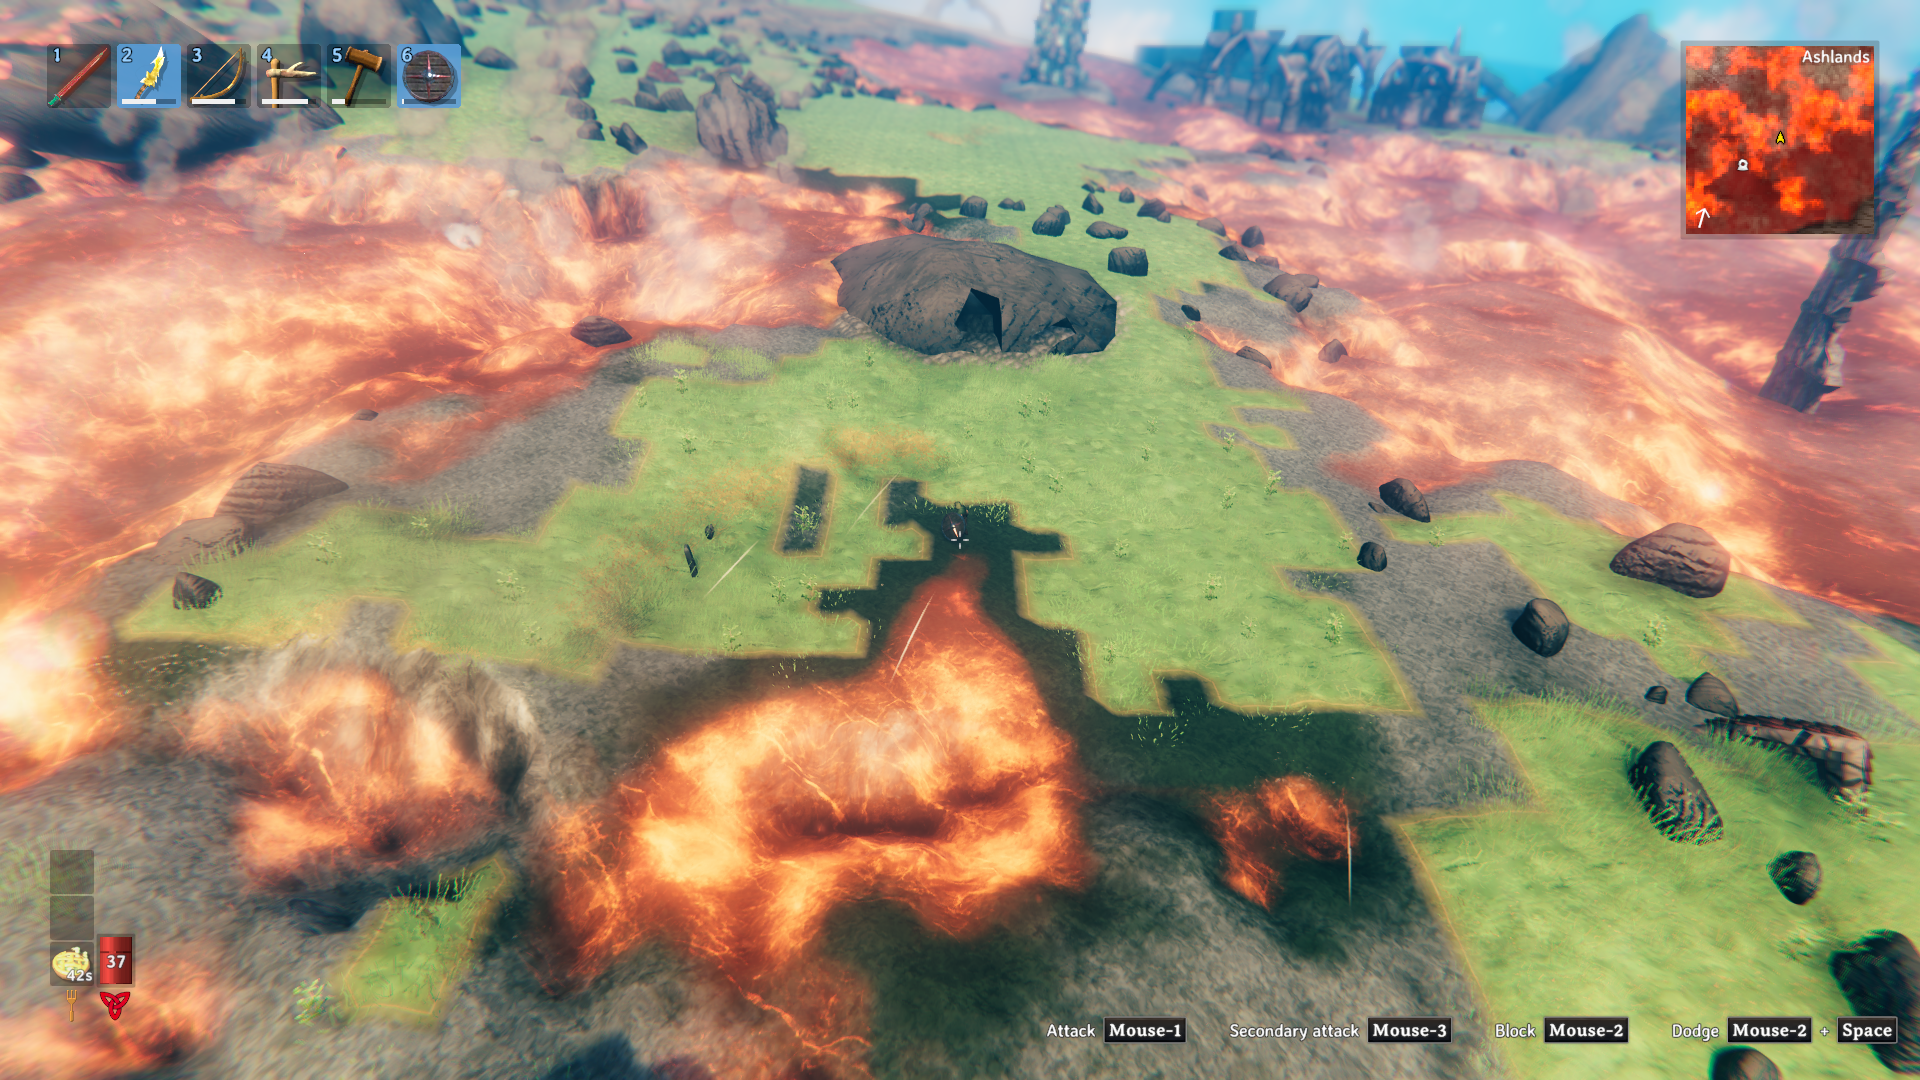
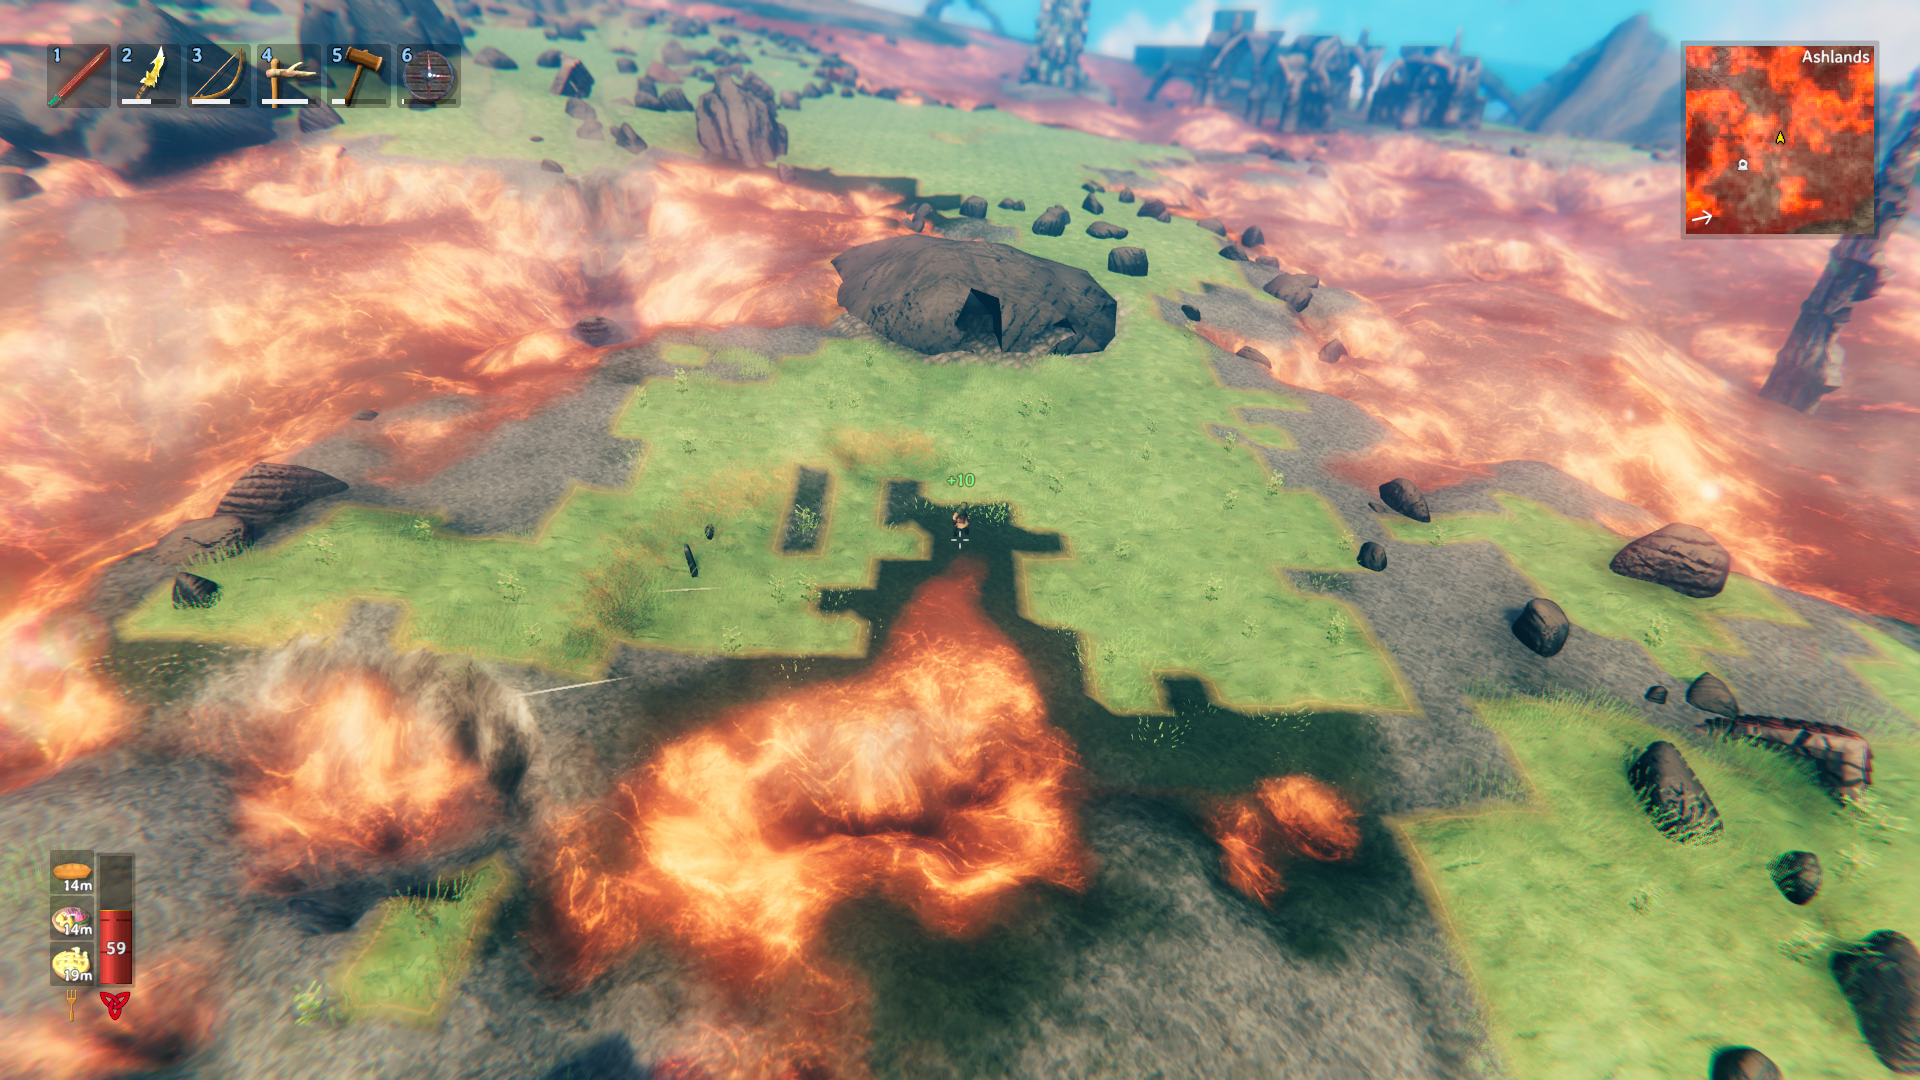
Lava edge v2 verified: docs, README configs, gallery refresh (incl. Vanilla)
Run 6 final: LAVACHECK PASS for MudBlend + GrassToLava (27,530 lava verts
each), GRASSCHECK PASS all styles, Legacy CONTRACT n=2 (pre-existing stride-2
artifact, excluded from aggregate), DebugGradient exempt by design. Visuals
match the terrain_Vanilla_* ground truth: lava edge in the vanilla place,
glowing rim + crack rivulets intact, no stair-steps, no yellow, no seams.
CLAUDE.md terrain section rewritten for v2 (hold invariant, ash skirt,
calibration findings, StoneAsh rejected); README config list updated; gallery
refreshed with the run-6 set including the vanilla reference shots.

diff --git a/CLAUDE.md b/CLAUDE.md
@@ -190,21 +190,46 @@ F1 dropdown, live rebuild via `SettingChanged` → `ForceTerrainRefresh`):
 - Lava mask is box-blurred on a padded grid (`BuildMaskGrid` samples neighbor chunks via
   `Heightmap.FindHeightmap` so kernels agree across chunk borders — no seams), and band
   thresholds get world-space Perlin jitter (deterministic, chunk-agnostic) for organic edges.
-- **Lava glow requires the AshLands vertex color** (DebugGradient strip 4 proof: Meadows
-  color over molten lava kills the glow). All styles keep full ash above mask ~0.45–0.58;
-  molten lava (mask > 0.6) is always deep inside that band.
+- **Lava glow requires the AshLands vertex color** (DebugGradient strip proofs: Meadows
+  color over molten lava kills the glow; constant half-ash `(255,0,0,128)` renders it dim
+  crimson — the glow scales with ash weight, so only full ash matches vanilla).
+- **AshHold invariant (v2, safety)**: `Heightmap.IsLava` = raw point-sampled paint-mask
+  alpha > 0.6 on a non-biome-edge AshLands chunk. Every styled vertex with raw mask ≥
+  `TransitionAshHold` (default 0.2, slider 0.05–0.55 < 0.6) renders full vanilla ash via a
+  binary gate on the RAW mask, so lethal ground can never look safe and the shader's
+  glowing rim/cracks stay exactly where vanilla puts them. LAVACHECK (in
+  `HeightmapPatches`, armed by the photo harness) counts violations per rebuild — must be
+  0. Do NOT feed raw into the band ramps: its lattice grain paints 1m color steps.
+- **Ash skirt (v2, band shaping)**: below the hold, band input =
+  `max(blurred+jitter, blurred-skirt + jitter/2)`. The skirt is a distance-decayed
+  grayscale dilation (separable max-plus) of the hold-capped raw mask, box-blurred to
+  round the hold region's lattice-blocky level-set corners. It guarantees the fade spans
+  ~4 m (MudBlend) / ~3.5 m (GrassToLava) around every lava feature — mask-value bands
+  alone collapse to <1 m at sharp mask cliffs (thin lava channels) and re-show stair
+  steps. Every ramp segment must span ≥ ~1.5–2 vertices at the skirt decay rate.
+  `AllowGrassAt` mirrors the skirt with 8 point probes so grass stops mid-fade.
+- Bands are anchored to the hold H: MudBlend R-ramp `[H−W, H−W/2]`, A-ramp `[H−W/2, H]`
+  (W = `TransitionFadeWidth`, default 0.15); GrassToLava fixed rim R `[H−0.06, H−0.035]`,
+  A `[H−0.035, H]`, jitter halved. A-ramps end at H with 255 → no seam at the gate.
 - `Legacy` is byte-identical to the pre-style behavior (stamp at 0.1, grass rule 0.11) —
-  the user's revert contract. Do not "fix" its threshold mismatch.
-- Styles: `MudBlend` (default; wide scorched-mud fade), `GrassToLava` (green almost to the
-  lava rivers, tight rim; jitter halved so noise can't cross the 0.6 molten threshold),
-  `DebugGradient` (dev calibration strips). Knobs: `TransitionNoiseScale/Strength`,
-  `TransitionBlurRadius`.
+  the user's revert contract. Do not "fix" its threshold mismatch. Known contract
+  artifact: its stride-2 subsampling misses ~1 lethal vertex at the test spot (raw ≥ 0.6
+  whose stride neighbor sample is ≤ 0.1 renders green); LAVACHECK reports it as
+  `CONTRACT`, excluded from the aggregate. The styled paths are strictly safer.
+- Styles: `MudBlend` (default; scorched-mud fade), `GrassToLava` (green close to the lava
+  rivers, tight rim), `DebugGradient` (7 dev calibration strips; EXEMPT from the hold —
+  strips must paint over lava; G-ramp strip renders yellow-green, not clean gray, so a
+  StoneAsh style was evaluated and rejected). Knobs: `TransitionAshHold`,
+  `TransitionFadeWidth`, `TransitionNoiseScale/Strength`, `TransitionBlurRadius` — all
+  live-refresh via F1.
 
 **Autonomous verification**: `TerrainPhotoAuto` (or F7) teleports to `TerrainPhotoPos`
-(default "129,30,-9671", the historical problem spot), cycles all 4 styles with a terrain
-refresh each, captures top-down + oblique + ground-close shots per style into
-`AR_TerrainPhoto\`, writes DONE.txt + `[AR TerrainPhoto] DONE`. Outer loop: kill valheim →
-`dev.ps1` → poll log for the DONE marker → **kill the game immediately** → read PNGs.
+(default "129,30,-9671", the historical problem spot), captures a vanilla ground-truth
+set (override disabled), then cycles all 4 styles with a terrain refresh each, running
+LAVACHECK + GRASSCHECK per style and capturing top-down + oblique + lava-edge close shots
+into `AR_TerrainPhoto\` (checks + shot paths in DONE.txt, `[AR TerrainPhoto] DONE` in the
+log). Outer loop: kill valheim → `dev.ps1` → poll log for the DONE marker → **kill the
+game immediately** → read PNGs. Final v2 gallery: `screenshots/terrain-transition/`.
 
 ### Config → feature guard pattern
 

diff --git a/AshlandsReborn/README.md b/AshlandsReborn/README.md
@@ -21,6 +21,8 @@ BepInEx plugin that overrides Ashlands environment to Meadows-like weather (clea
 - **TerrainTransitionStyle** (default: MudBlend) - How green terrain fades into ash/lava. `MudBlend` = grass -> scorched mud -> ash -> lava with organic noisy edges. `GrassToLava` = grass runs almost to the lava rivers with a tight mud/ash rim. `Legacy` = the original binary stamp (blocky edges + yellow fringe). `DebugGradient` = dev calibration strips. Changing it live-rebuilds nearby terrain.
 - **TransitionNoiseScale / TransitionNoiseStrength** (defaults: 0.08 / 0.08) - Frequency and amplitude of the edge-breakup noise on the transition contours.
 - **TransitionBlurRadius** (default: 2) - Lava-mask blur in vertices; smooths the banding.
+- **TransitionAshHold** (default: 0.2) - Lava-mask level at/above which terrain always renders as full vanilla ash (evaluated on the raw mask), keeping the glowing lava rim/cracks and the deadly lava boundary exactly vanilla. Lower = more vanilla ash retained around lava.
+- **TransitionFadeWidth** (default: 0.15) - Width of the MudBlend green -> mud -> ash fade band below the ash hold; smaller = narrower mud band.
 - **EnableDevCommandsAndGodMode** (default: true) - When loading a world, run devcommands and god for easier testing.
 
 Use **ConfigurationManager** (F1 in-game) to toggle these at runtime without restarting.
